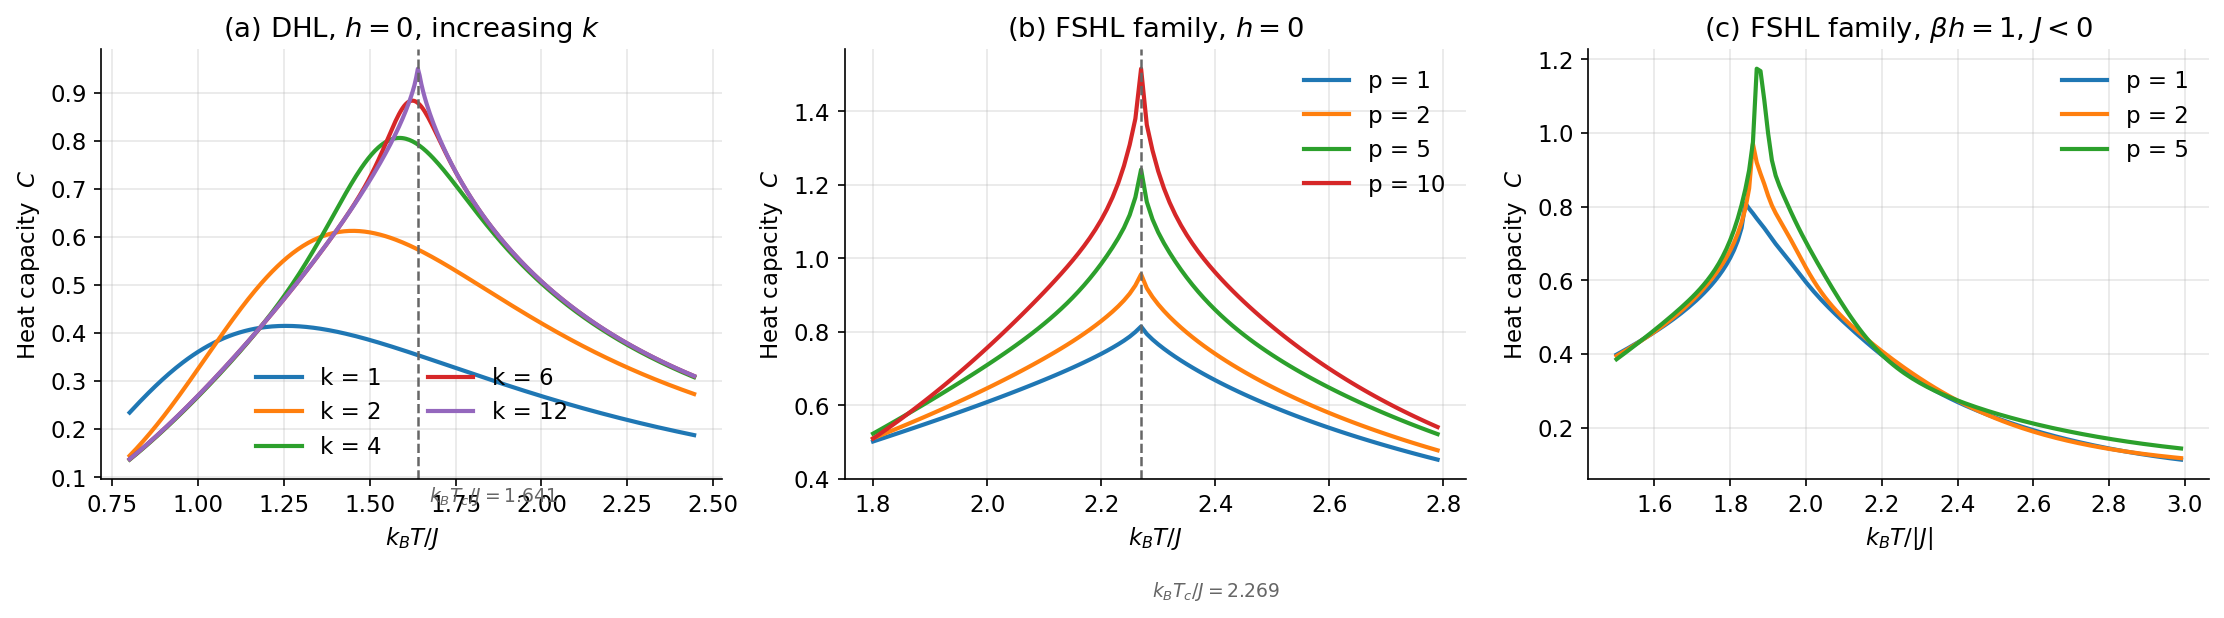
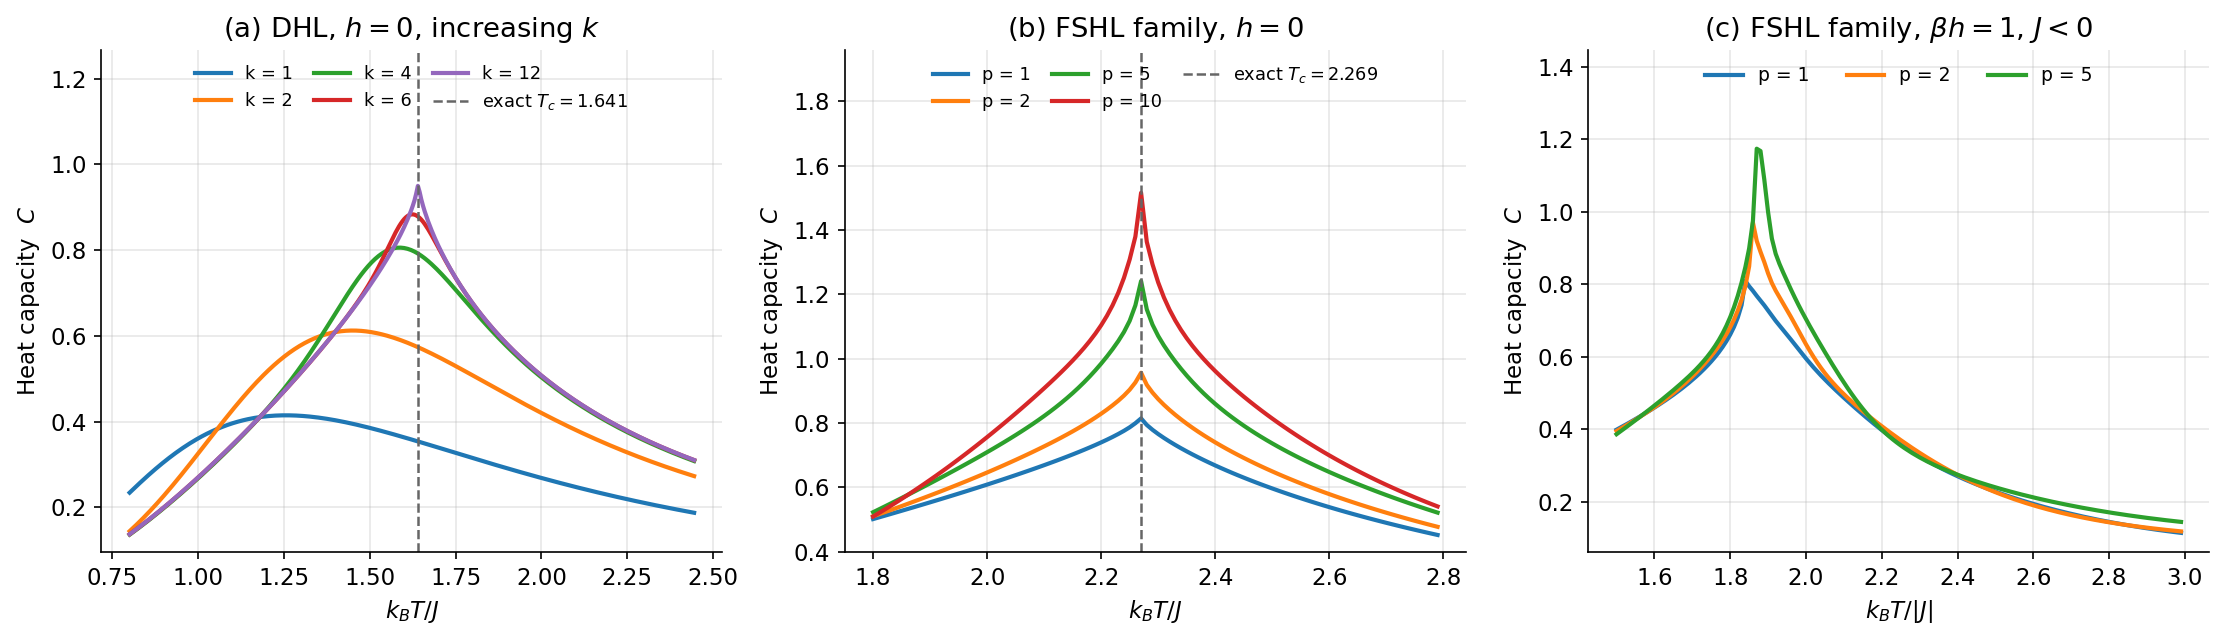
Fixes for previous commit

diff --git a/reproduce/_common.py b/reproduce/_common.py
@@ -1,0 +1,122 @@
+"""Shared computation, plotting and I/O helpers for the reproduction scripts.
+
+Keeping the physics in one place lets ``figure3_ising.py``,
+``figure4_binary_gas.py`` and the ``notebooks/reproduce_paper.ipynb``
+notebook share exactly the same code paths.
+"""
+
+import os
+import sys
+
+# Make the project root importable no matter how the script is launched
+# (``python -m reproduce.figureX`` or ``python reproduce/figureX.py``).
+_ROOT = os.path.dirname(os.path.dirname(os.path.abspath(__file__)))
+if _ROOT not in sys.path:
+    sys.path.insert(0, _ROOT)
+
+import numpy as np
+
+import Scripts.MainScripts as ms
+
+# Output locations (created on demand).
+FIGURES_DIR = os.path.join(_ROOT, "figures")
+DATA_DIR = os.path.join(_ROOT, "data")
+
+# Exact reference critical temperatures, in units of k_B T_c / J.
+TC_SQUARE = 2.0 / np.log(1.0 + np.sqrt(2.0))  # 2.2691...  (Onsager, square lattice)
+TC_DHL = 1.641                                # diamond hierarchical lattice (Ref. [29])
+
+
+# ---------------------------------------------------------------------------
+# Ising model
+# ---------------------------------------------------------------------------
+def _ising_calc(lattice, **overrides):
+    calc = ms.CalcConfig()
+    calc.model = "ising"
+    calc.lattice = lattice
+    calc.constant = 1.0  # dimensionless units: temperature measured in J / k_B
+    for key, value in overrides.items():
+        setattr(calc, key, value)
+    return calc
+
+
+def ising_cv(calc, T, h, J):
+    """Heat capacity of the Ising model at one temperature.
+
+    ``J`` is the coupling entry of ``m_par``: ``J > 0`` is ferromagnetic,
+    ``J < 0`` antiferromagnetic.  ``h`` is the (single-node) external field.
+    """
+    return ms.thermodynamics(
+        calc, T, [h, J, 0, 0, 0, 0], heat_capacity=True
+    )["heat_capacity"]
+
+
+def ising_cv_curve(lattice, temperatures, h=0.0, J=1.0, betah=None, **overrides):
+    """Converged heat-capacity curve vs temperature.
+
+    If ``betah`` is given, the field is fixed in units of temperature at every
+    point (``h = betah / beta = betah * constant * T``), reproducing the
+    ``beta h = const`` curves of the paper.
+    """
+    calc = _ising_calc(lattice, **overrides)
+    out = []
+    for T in temperatures:
+        field = betah * calc.constant * T if betah is not None else h
+        out.append(ising_cv(calc, T, field, J))
+    return np.asarray(out)
+
+
+def ising_cv_curve_fixed_k(lattice, temperatures, k, h=0.0, J=1.0, **overrides):
+    """Heat-capacity curve at a *fixed* renormalization depth ``k``.
+
+    Setting ``methodTolerance = 0`` disables the early-convergence break, so
+    the HTN iteration runs exactly ``k`` steps -- this is what produces the
+    finite-``k`` family of curves in Fig. 3(a).
+    """
+    calc = _ising_calc(lattice, iterations=k, methodTolerance=0.0, **overrides)
+    return np.asarray([ising_cv(calc, T, h, J) for T in temperatures])
+
+
+# ---------------------------------------------------------------------------
+# Small utilities
+# ---------------------------------------------------------------------------
+def peak(x, y):
+    """Return ``(x*, y*)`` at the maximum of ``y``."""
+    i = int(np.argmax(y))
+    return float(x[i]), float(y[i])
+
+
+def save_csv(filename, header, columns):
+    """Save column data to ``data/<filename>`` as CSV with a header line."""
+    os.makedirs(DATA_DIR, exist_ok=True)
+    path = os.path.join(DATA_DIR, filename)
+    np.savetxt(path, np.column_stack(columns), delimiter=",",
+               header=header, comments="")
+    return path
+
+
+def savefig(fig, filename):
+    """Save a Matplotlib figure into ``figures/<filename>``."""
+    os.makedirs(FIGURES_DIR, exist_ok=True)
+    path = os.path.join(FIGURES_DIR, filename)
+    fig.savefig(path, bbox_inches="tight")
+    return path
+
+
+def setup_style():
+    """Apply a clean, consistent Matplotlib style. Imported lazily so the rest
+    of the module stays usable without the optional plotting dependency."""
+    import matplotlib.pyplot as plt
+
+    plt.rcParams.update({
+        "figure.dpi": 120,
+        "savefig.dpi": 150,
+        "font.size": 11,
+        "axes.grid": True,
+        "grid.alpha": 0.3,
+        "axes.spines.top": False,
+        "axes.spines.right": False,
+        "lines.linewidth": 2.0,
+        "legend.frameon": False,
+    })
+    return plt

diff --git a/reproduce/figure3_ising.py b/reproduce/figure3_ising.py
@@ -30,13 +30,13 @@ def main():
         cv = C.ising_cv_curve_fixed_k("diamond", Ta, k=k, h=0.0, J=1.0, coord=3)
         ax_a.plot(Ta, cv, label=f"k = {k}")
         cols_a.append(cv)
-    ax_a.axvline(C.TC_DHL, color="0.4", ls="--", lw=1.2)
-    ax_a.text(C.TC_DHL + 0.03, ax_a.get_ylim()[1] * 0.05,
-              r"$k_B T_c/J = 1.641$", color="0.4", fontsize=9)
+    ax_a.axvline(C.TC_DHL, color="0.4", ls="--", lw=1.2,
+                 label=r"exact $T_c = 1.641$")
     ax_a.set_title("(a) DHL, $h = 0$, increasing $k$")
     ax_a.set_xlabel(r"$k_B T / J$")
     ax_a.set_ylabel(r"Heat capacity  $C$")
-    ax_a.legend(ncol=2)
+    ax_a.set_ylim(top=ax_a.get_ylim()[1] * 1.28)
+    ax_a.legend(loc="upper center", ncol=3, fontsize=8.5, columnspacing=1.2)
 
     # --- Panel (b): FSHL family, h = 0 ------------------------------------
     Tb = np.arange(1.80, 2.80, 0.01)
@@ -45,13 +45,13 @@ def main():
         cv = C.ising_cv_curve("FSHL", Tb, h=0.0, J=1.0, metParam=p)
         ax_b.plot(Tb, cv, label=f"p = {p}")
         cols_b.append(cv)
-    ax_b.axvline(C.TC_SQUARE, color="0.4", ls="--", lw=1.2)
-    ax_b.text(C.TC_SQUARE + 0.02, ax_b.get_ylim()[1] * 0.05,
-              r"$k_B T_c/J = 2.269$", color="0.4", fontsize=9)
+    ax_b.axvline(C.TC_SQUARE, color="0.4", ls="--", lw=1.2,
+                 label=r"exact $T_c = 2.269$")
     ax_b.set_title("(b) FSHL family, $h = 0$")
     ax_b.set_xlabel(r"$k_B T / J$")
     ax_b.set_ylabel(r"Heat capacity  $C$")
-    ax_b.legend()
+    ax_b.set_ylim(top=ax_b.get_ylim()[1] * 1.25)
+    ax_b.legend(loc="upper center", ncol=3, fontsize=8.5, columnspacing=1.2)
 
     # --- Panel (c): FSHL family, antiferromagnet, beta h = 1 --------------
     Tc = np.arange(1.50, 3.00, 0.01)
@@ -63,7 +63,8 @@ def main():
     ax_c.set_title(r"(c) FSHL family, $\beta h = 1$, $J < 0$")
     ax_c.set_xlabel(r"$k_B T / |J|$")
     ax_c.set_ylabel(r"Heat capacity  $C$")
-    ax_c.legend()
+    ax_c.set_ylim(top=ax_c.get_ylim()[1] * 1.18)
+    ax_c.legend(loc="upper center", ncol=3, fontsize=9)
 
     fig.tight_layout()
     out = C.savefig(fig, "figure3_ising.png")

diff --git a/reproduce/README.md b/reproduce/README.md
@@ -1,0 +1,33 @@
+# Reproducing the paper
+
+Scripts that regenerate the figures of
+
+> S. S. Akimenko and A. V. Myshlyavtsev, *"Tensor networks for hierarchical
+> lattices"*, **EPL** 148, 61001 (2024).
+> [doi:10.1209/0295-5075/ad994b](https://doi.org/10.1209/0295-5075/ad994b)
+
+## Setup
+
+```bash
+pip install -r requirements-plot.txt   # NumPy + Matplotlib
+```
+
+## Run
+
+From the repository root:
+
+```bash
+python -m reproduce.figure3_ising        # Fig. 3 -> figures/figure3_ising.png
+```
+
+The script writes a PNG into `figures/` and the underlying curves as CSV into
+`data/`. The same code paths are exercised interactively in
+[`notebooks/reproduce_paper.ipynb`](../notebooks/reproduce_paper.ipynb).
+
+## What the figure shows
+
+| Panel | Content | What it demonstrates |
+|---|---|---|
+| 3(a) | Ising heat capacity on the diamond lattice for increasing depth `k` | peak converges to the exact DHL value `k_B T_c / J = 1.641` |
+| 3(b) | Ising heat capacity for the FSHL family (`p = 1, 2, 5, 10`) at `h = 0` | peak at the exact square-lattice value `2.269` |
+| 3(c) | Antiferromagnet in a field (`beta h = 1`) on the FSHL family | critical point shifts with `p` |
